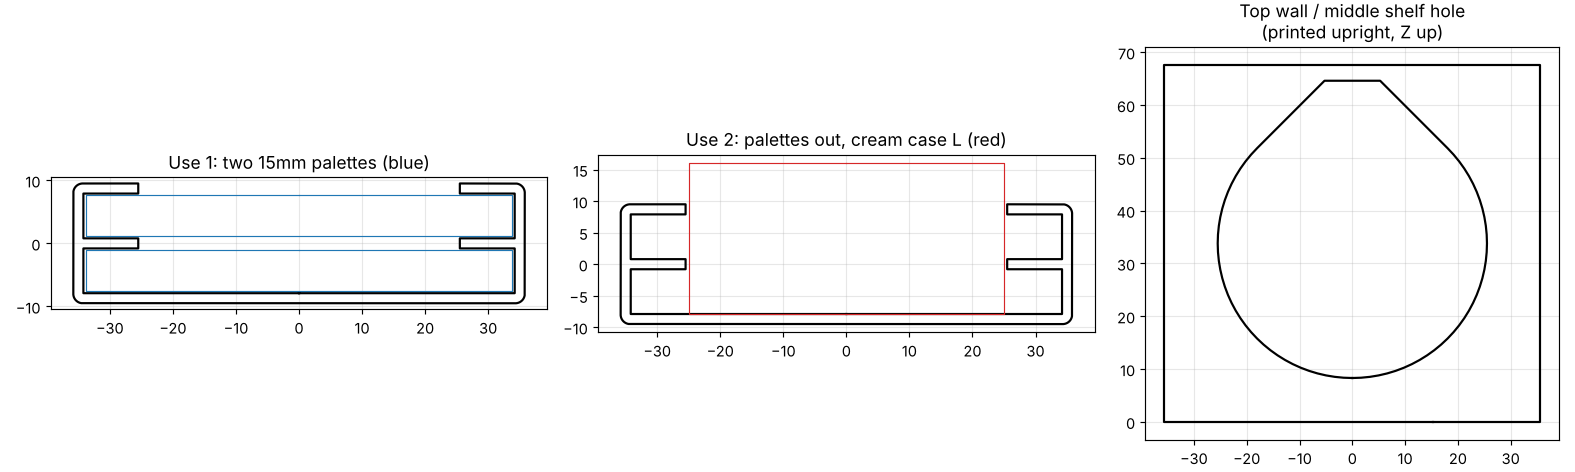
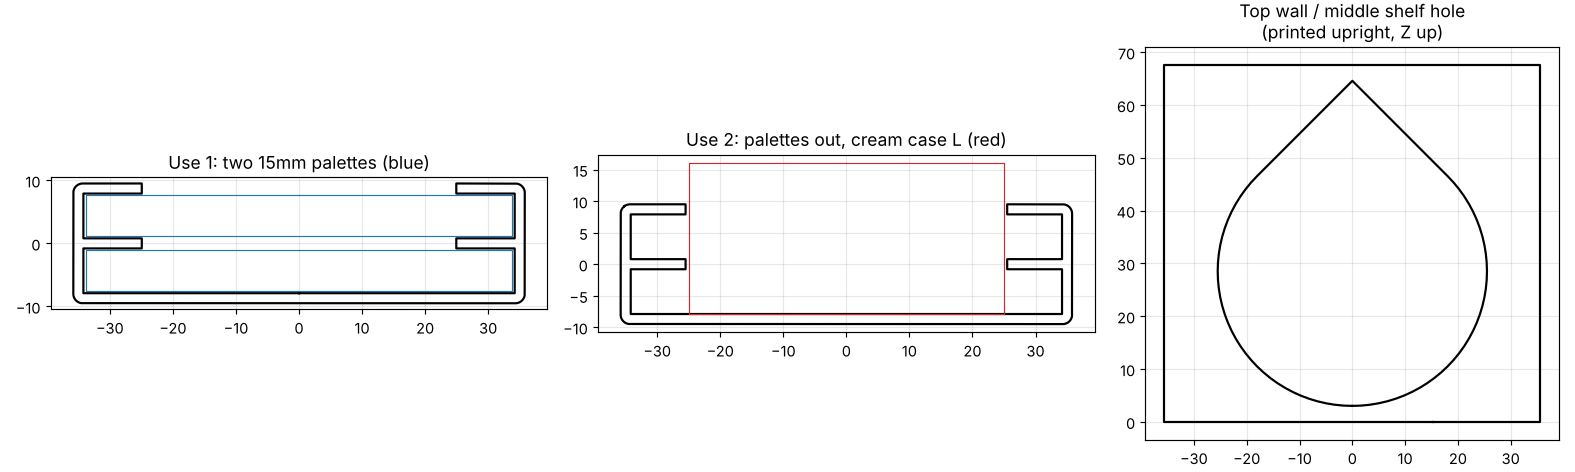
Make sleeve hole a true pointed teardrop
Claude-Session: https://claude.ai/code/session_0197n3kFCcorbmYGVXc67SnP

diff --git a/watercolor-palette/make_stack.py b/watercolor-palette/make_stack.py
@@ -64,14 +64,13 @@ def sleeve_2tier():
     # 天板と中段に穴。縦置き印刷で穴の上側が垂れないよう、上端だけ 45° のとんがりにする
     circle = CrossSection.circle(HOLE_R, SEG)
     apex = CrossSection.square([0.01, 0.01], center=True).translate([0, HOLE_R * math.sqrt(2)])
-    tip = CrossSection.batch_hull([circle, apex])
-    # とんがりの先は平らに切って、筒の端に 3mm 以上の壁を残す (短いブリッジで済む)
-    flat_y = min(HOLE_R * math.sqrt(2) - 3.0, length / 2 - 3.0)
-    tip = tip - CrossSection.square([HOLE_R * 4, HOLE_R], center=True).translate([0, flat_y + HOLE_R / 2])
+    tip = CrossSection.batch_hull([circle, apex])       # 先端まで鋭くとがった雫型
+    # 雫の先 (中心から R√2) まで入るよう、穴を筒の中で下寄せし上下の残り壁を揃える
+    hole_z = (length - HOLE_R * math.sqrt(2) + HOLE_R) / 2
     teardrop = Manifold.extrude(tip, outer_h)            # XY 平面の形を Z 方向に押し出し
     teardrop = teardrop.rotate([90, 0, 0])               # 穴の軸を Y に、とんがりを +Z に
     y_start = tiers[0] + tier_h / 2 - 0.01               # 中段の仕切りの下面から上に開ける (底板は残す)
-    teardrop = teardrop.translate([0, y_start + outer_h, length / 2])
+    teardrop = teardrop.translate([0, y_start + outer_h, hole_z])
     body = body - (teardrop ^ Manifold.cube([outer_w * 2, outer_h, length * 2], center=True)
                    .translate([0, y_start + outer_h / 2, length / 2]))
     return body.simplify(0.005), (outer_w, outer_h, length, tiers, tier_h)
